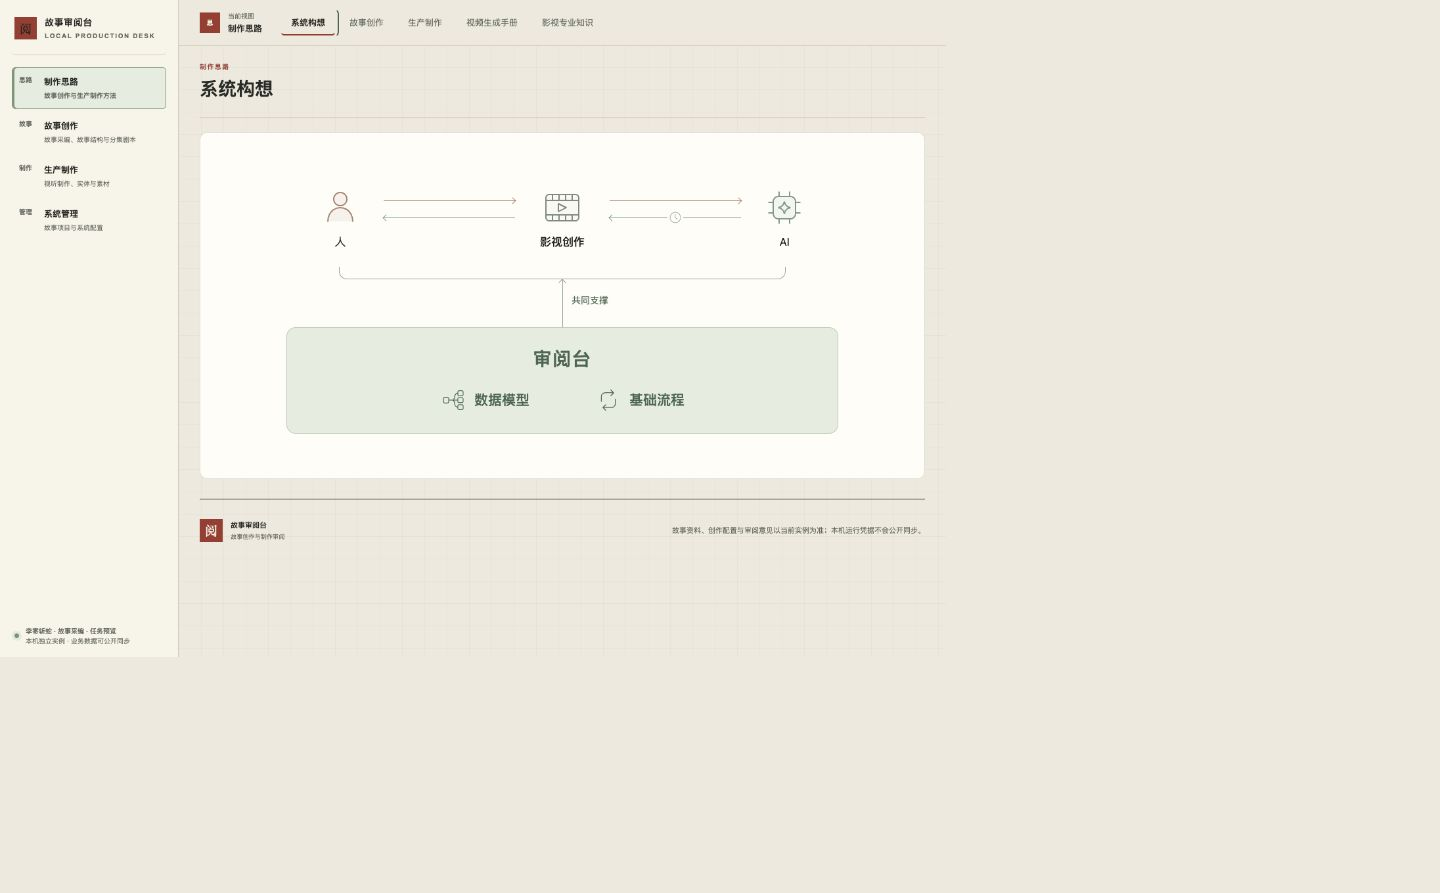
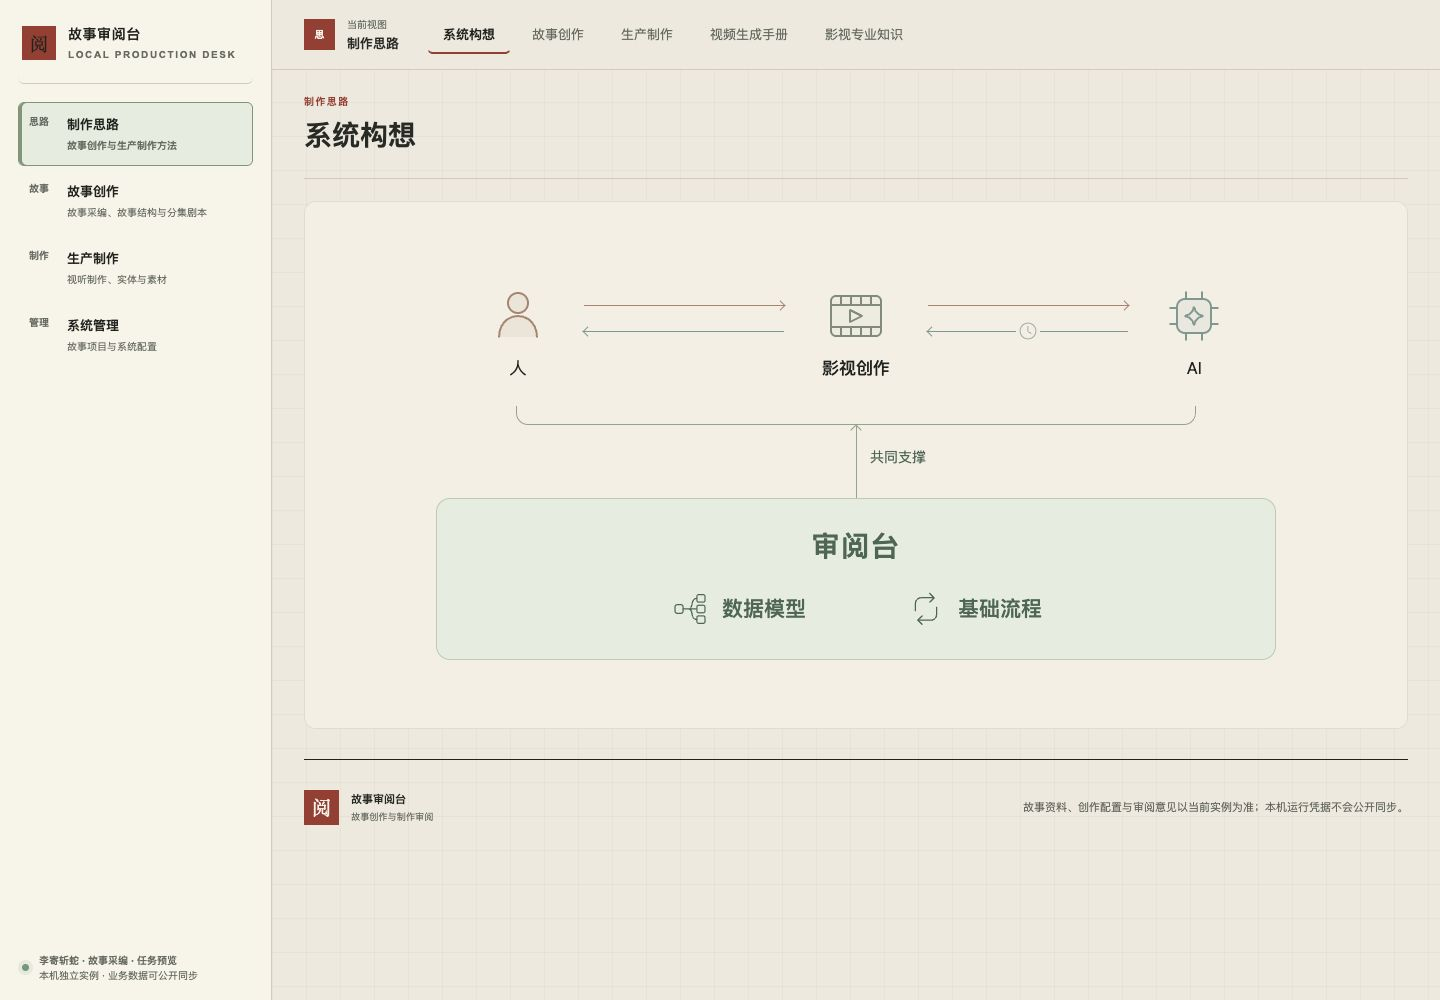
统一系统构想与其他子页的暖纸色

diff --git a/production/vision-collaboration/VERIFICATION.md b/production/vision-collaboration/VERIFICATION.md
@@ -2,7 +2,7 @@
 
 原问题是愿景协作块关系不清，随后整页收敛为一张图。用户已认可两层叙事，本轮解决上层过于抢眼、整体僵硬及与系统 UI 风格不协调，并按最新要求将模块改名为“系统构想”。这些明确反馈取代最初四块布局、三方并列及五阶段链的展示要求。
 
-页面以浅绿色共同基础突出“审阅台”，内部并列数据模型和基础流程；一个向上连接及覆盖整个上层的括线表示共同支撑，不把两个基础分别绑定人和 AI。上层用低饱和人物、AI 与电影图标和双向细线保留共创关系，时间符号融入返回路径。页面复用系统纸面、绿色、字体与留白；原生文字和矢量图标在窄屏保持可读字号。图表达协作构想，不宣称影视作品已完成或所有能力已实现。
+页面以浅绿色共同基础突出“审阅台”，内部并列数据模型和基础流程；一个向上连接及覆盖整个上层的括线表示共同支撑，不把两个基础分别绑定人和 AI。上层用低饱和人物、AI 与电影图标和双向细线保留共创关系，时间符号融入返回路径。页面直接复用其他子页的阅读区暖纸色，实读计算值同为rgb(244,239,228)，仅基础层保留浅绿；字体与留白沿系统风格；原生文字和矢量图标在窄屏保持可读字号。图表达协作构想，不宣称影视作品已完成或所有能力已实现。
 
 ## 实际页面验证
 
